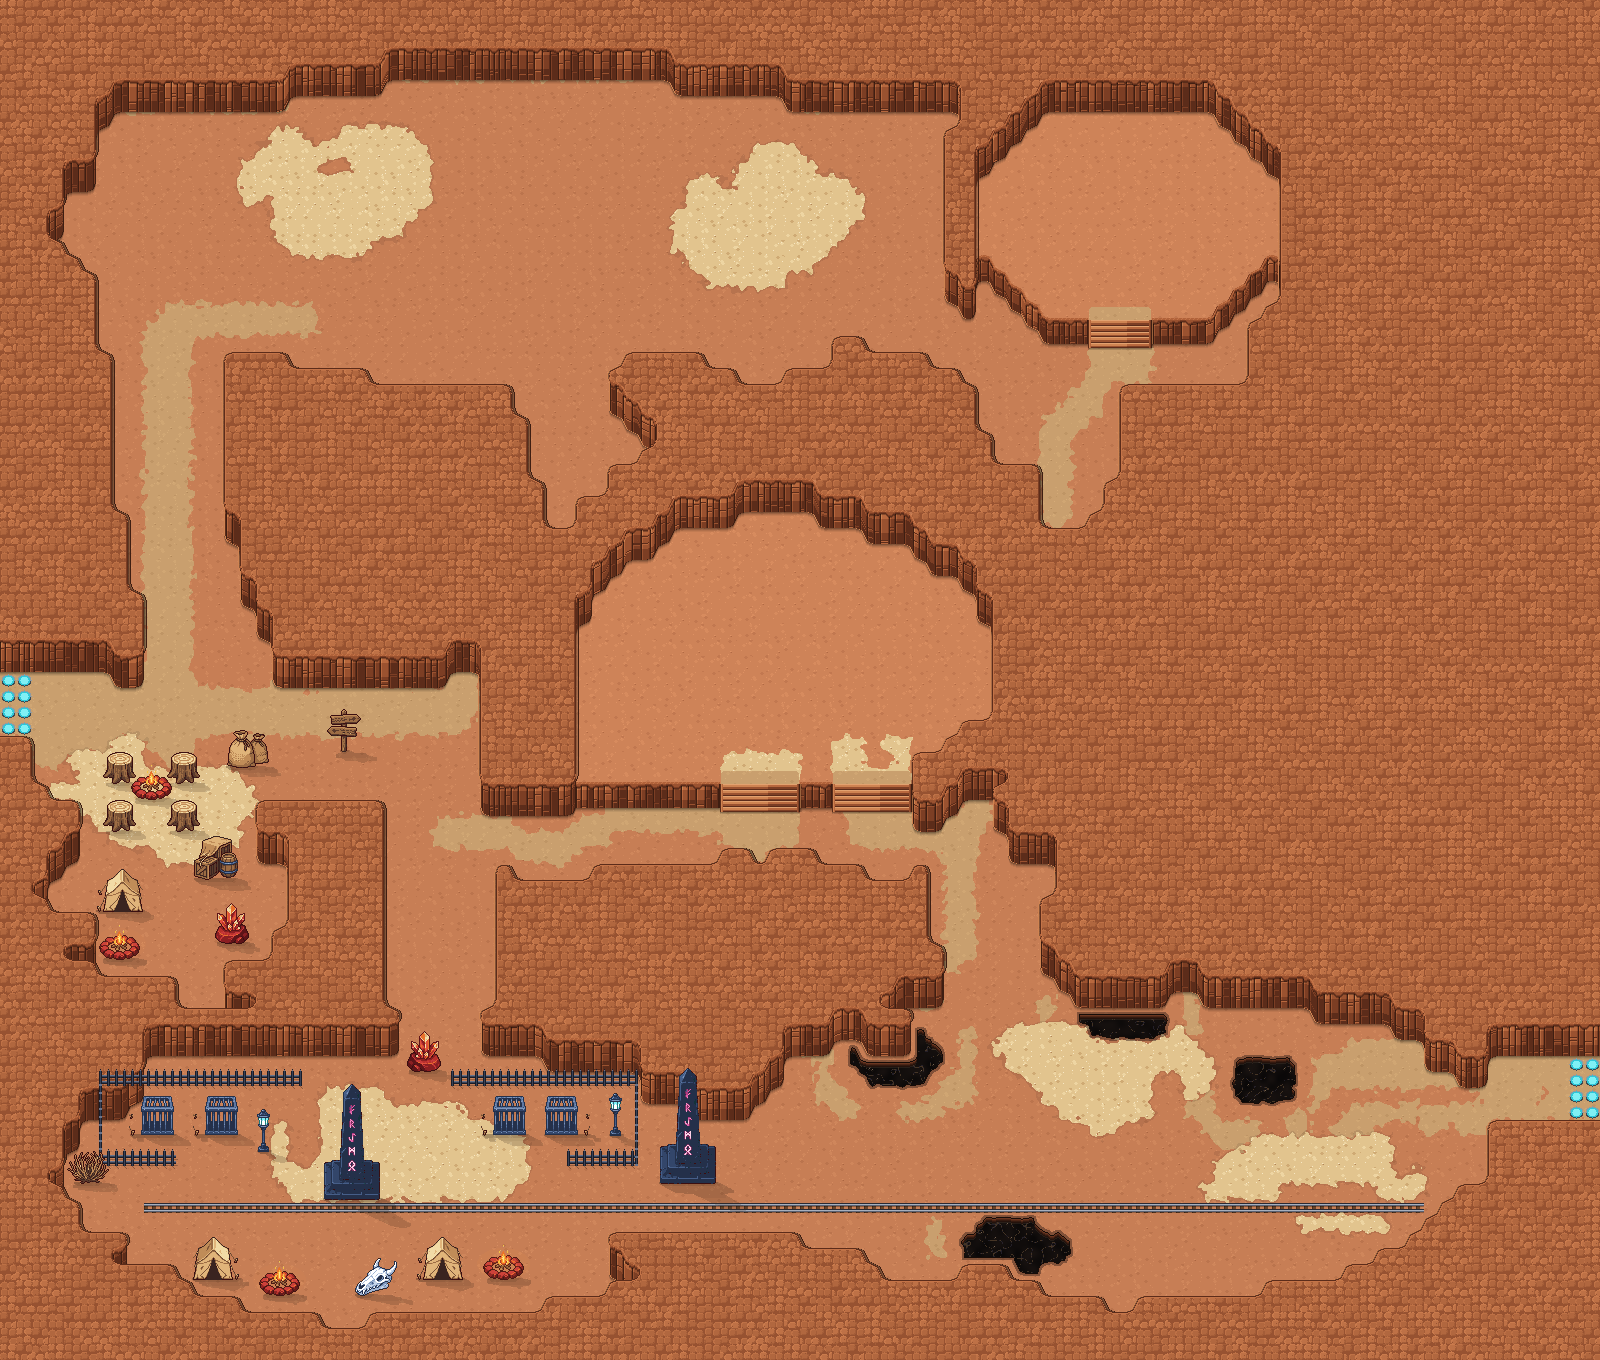
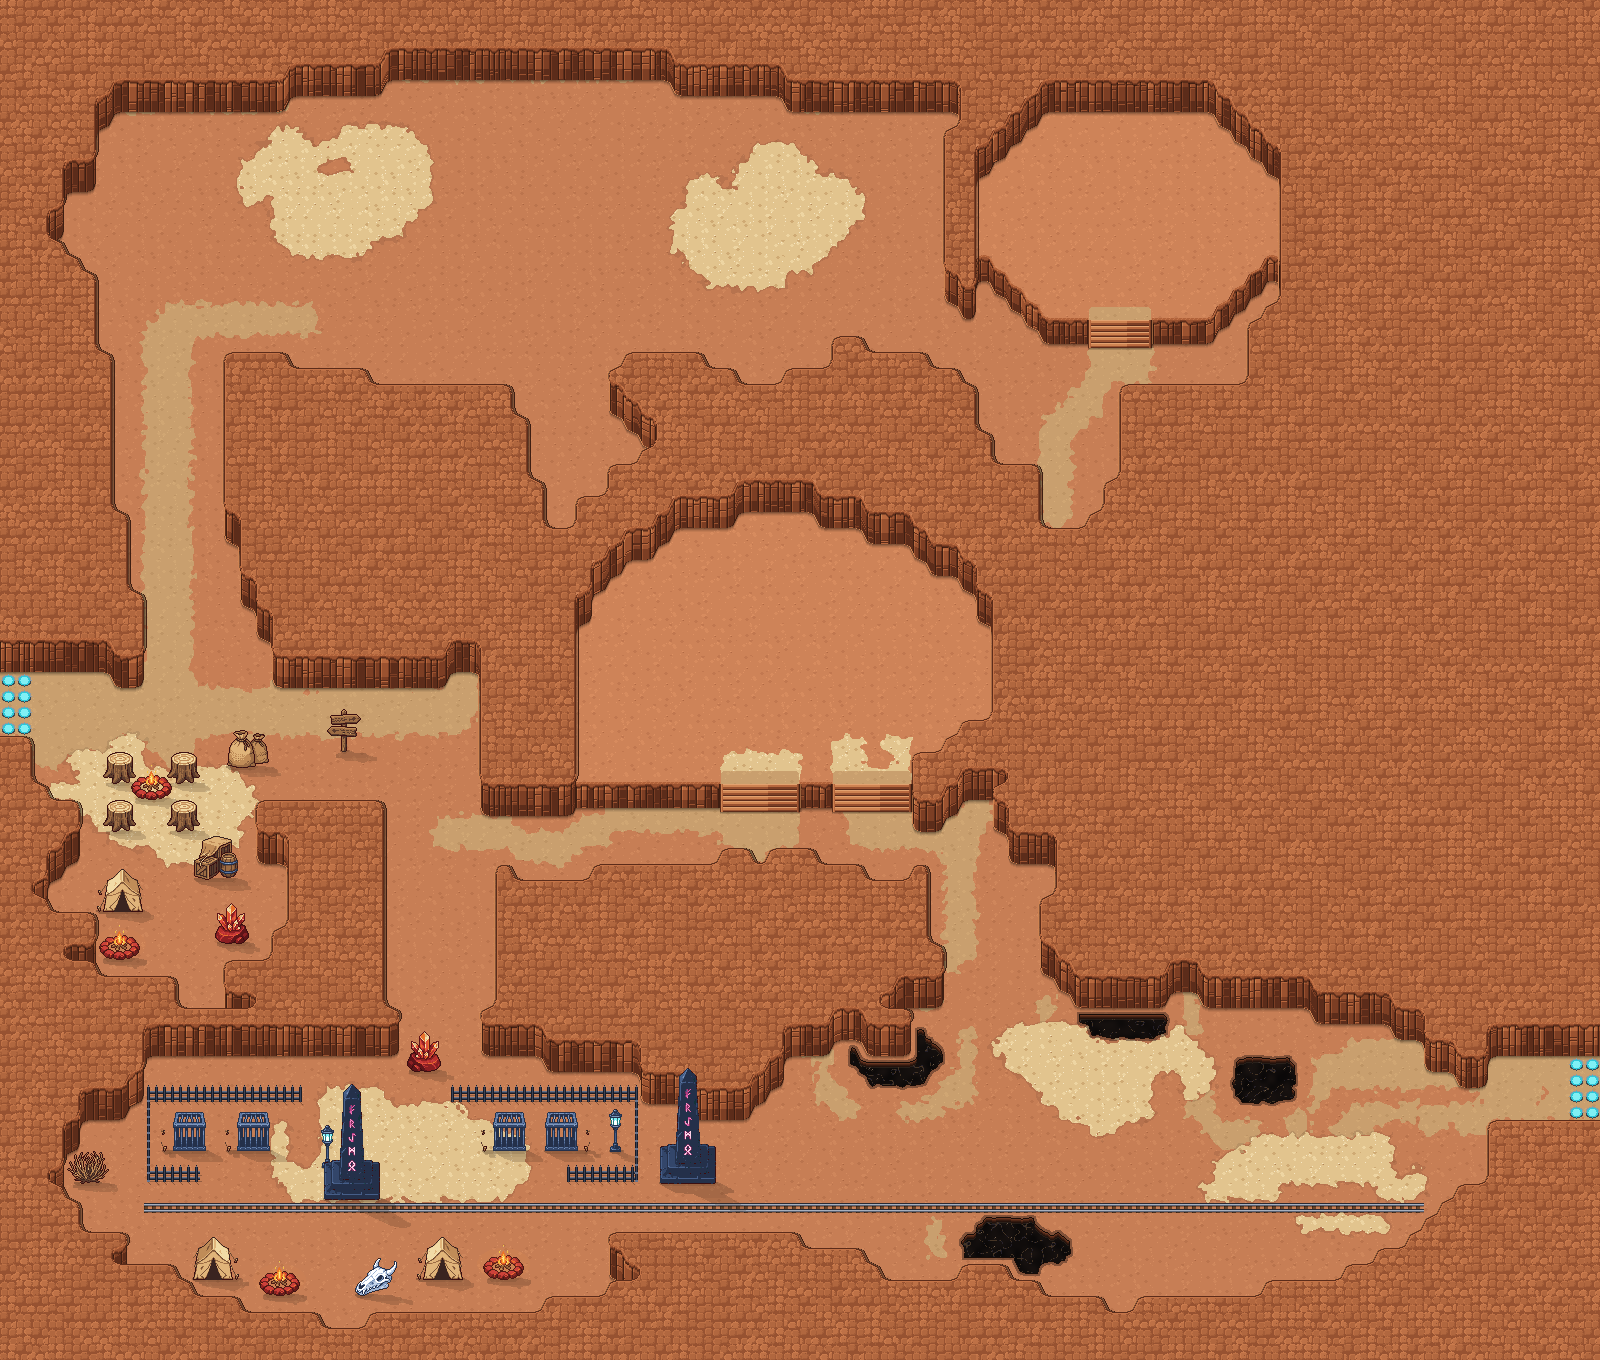
Karte 24: Pferche ganz auf dem Canyonboden, Zaun nie ueber Fels oder Wand
Claude-Session: https://claude.ai/code/session_01SaoYHKhnro4LFcPJqjaPsq

Changed region(s): [[0.0625, 0.7721, 0.1875, 0.8956], [0.2812, 0.7721, 0.4062, 0.8647]]

diff --git a/tools/karte24_objekte.py b/tools/karte24_objekte.py
@@ -20,7 +20,7 @@ T = 16
 ZELT, KAEFIG, FEUER, ERZ, LATERNE, HOCKER = 'lager/00', 'lager/01', 'lager/02', 'lager/03', 'lager/04', 'lager/05'
 KISTEN, SAECKE, DORN, SCHAEDEL, SCHILD, OBELISK = 'lager/08', 'lager/10', 'lager/11', 'lager/14', 'lager/15', 'obelisk/00'
 # Eisenzaun der Pferche: (x0, y0, x1, y1, offene Seiten) - nach der Vorlage, Pferch A links, Pferch B rechts
-ZAEUNE = [(6, 67, 18, 72, 'unten_rechts'), (28, 67, 39, 72, 'unten_links')]   # auf den freien Boden verschoben
+ZAEUNE = [(9, 68, 18, 73, 'unten_rechts'), (28, 68, 39, 73, 'unten_links')]   # ganz auf dem Canyonboden   # auf den freien Boden verschoben
 # (sprite, Kachel-x der Fussmitte, Fusszeile, Optionen) - Anordnung nach der Vorlage, auf unseren Canyonboden gelegt
 UNTEN_LINKS = [
     # Lager oben links: Feuerstelle mit Hockern, Kisten und Saecke
@@ -30,9 +30,9 @@ UNTEN_LINKS = [
     # Zelte
     (ZELT, 7.5, 56, {}), (ZELT, 11.5, 61, {'spiegeln': True}), (FEUER, 7.5, 59, {'anim': 'feuer'}),
     # Pferch A (links) und Pferch B (rechts): Kaefige, Laternen
-    (KAEFIG, 9, 70, {}), (KAEFIG, 12.5, 70, {}),
-    (KAEFIG, 31.5, 70, {}), (KAEFIG, 35, 70, {'spiegeln': True}),
-    (LATERNE, 16, 71, {'anim': 'lampe'}), (LATERNE, 38, 70, {'anim': 'lampe'}),
+    (KAEFIG, 11.5, 71, {}), (KAEFIG, 15, 71, {}),
+    (KAEFIG, 31.5, 71, {}), (KAEFIG, 35, 71, {'spiegeln': True}),
+    (LATERNE, 20, 72, {'anim': 'lampe'}), (LATERNE, 38, 71, {'anim': 'lampe'}),
     (ERZ, 26, 66, {'spiegeln': True}),
     # Obelisken auf dem Sandplatz zwischen den Pferchen
     (OBELISK, 21.5, 74, {}), (OBELISK, 42.5, 73, {}),

diff --git a/tools/karte24_bauen.py b/tools/karte24_bauen.py
@@ -208,8 +208,13 @@ def bauen(frame=None, speichern=True):
     img = Image.fromarray(a).convert('RGBA')
     zf = os.path.join(OBJ, 'zaeune.json')
     if os.path.exists(zf):
+        boden_ok = (hp == 0) & ~wand
         for (x0, y0, x1, y1, offen) in json.load(open(zf)):
+            vor = np.array(img)
             eisenzaun(img, (x0, y0, x1, y1), offen)
+            nach = np.array(img)
+            nach[~boden_ok] = vor[~boden_ok]                      # Zaun nie ueber Fels oder Felswand
+            img = Image.fromarray(nach)
     lvl = hp.astype(np.uint8) + 1
     if speichern and frame is None:
         img.save(os.path.join(KARTE, 'terrain_basis.png'))
